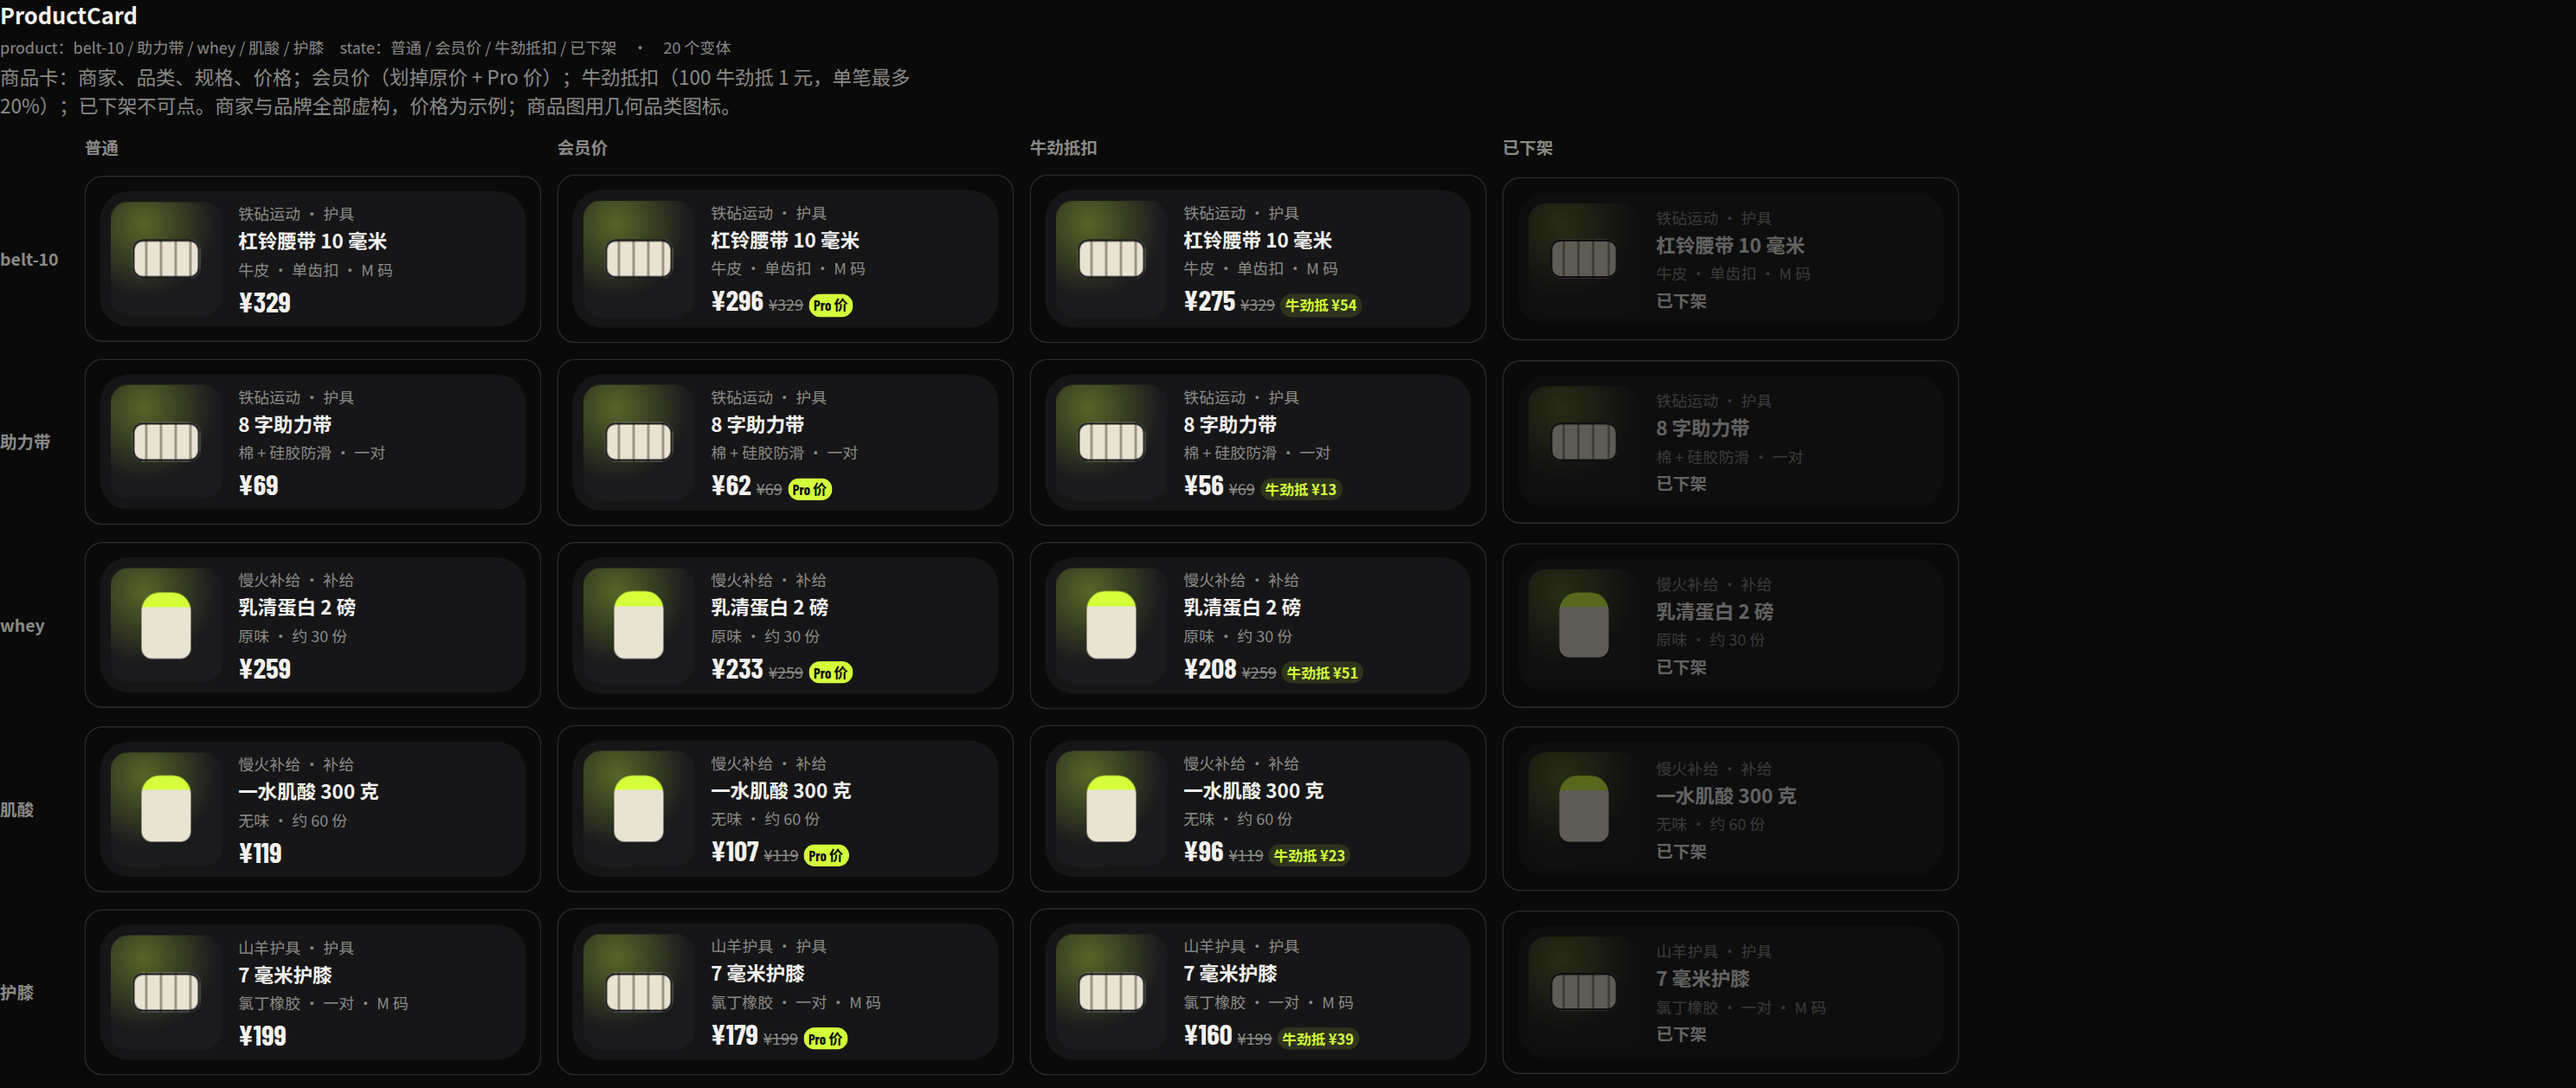
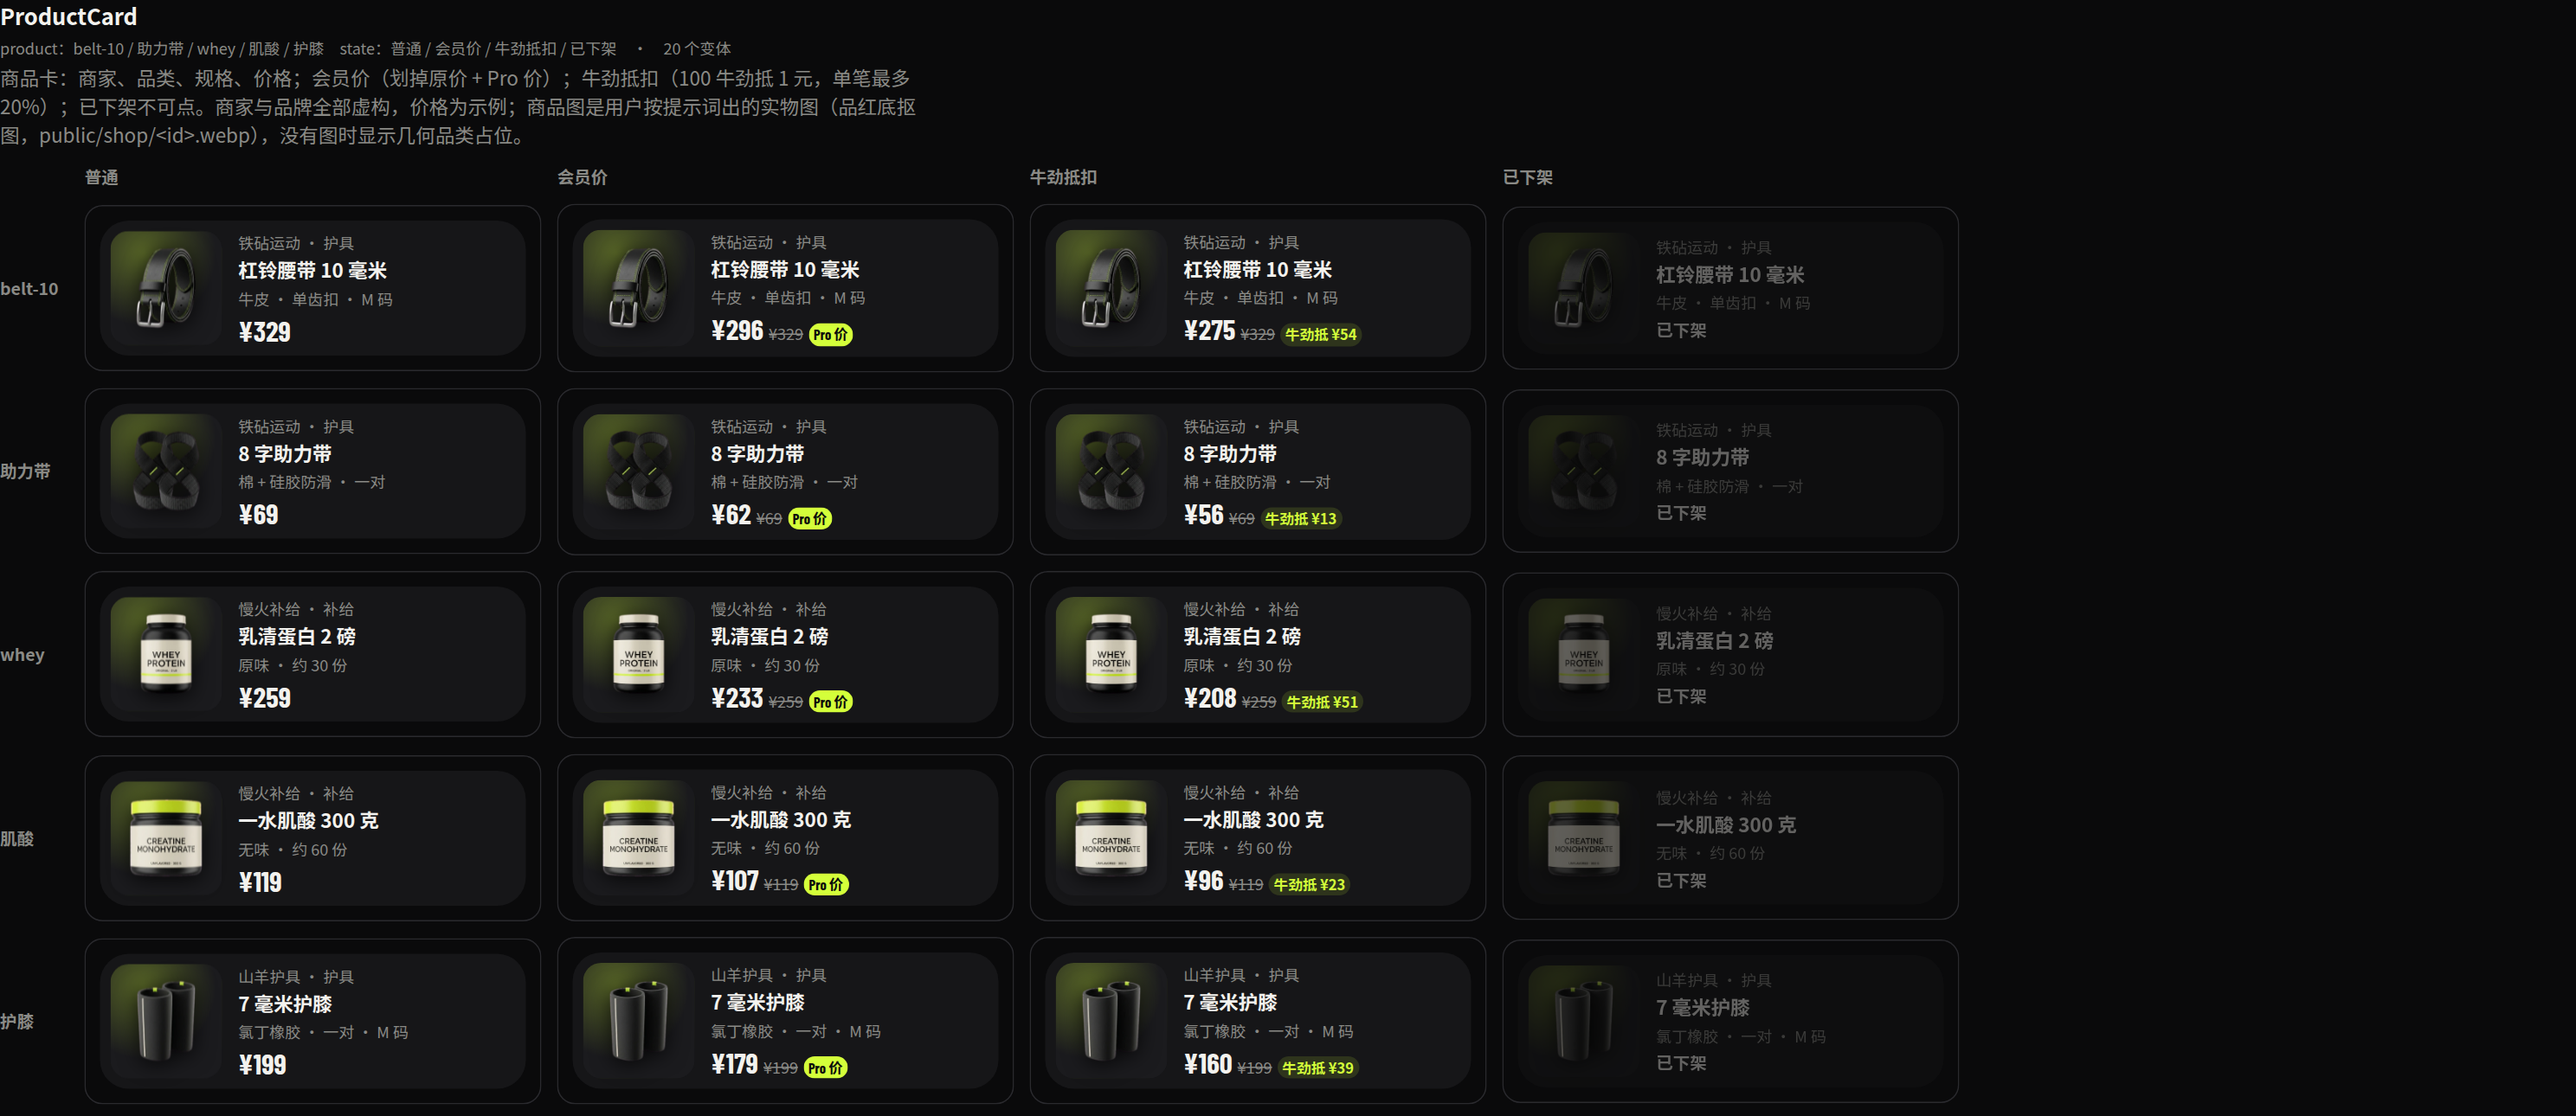
商城实物图：用户出的 5 件商品抠图入库，商品卡显示实物
- docs/shop/<id>.jpg（选用）与 docs/shop/alt/（备选），由 main 上传的 10 张整理而来
- scripts/shop_png.py：品红键（min(R, B) − G，像绿幕）反解边缘、实心阈值按量程取 200，被围住的底色小块不填（助力带 8 字交叉处）
- mascot_png.matte 新增 key='magenta' 与 open_bg_holes（小牛不开：眼睛和深色底一样黑），小牛产物不变

Claude-Session: https://claude.ai/code/session_01VtzVRg4P2pmqxTgWpjWk5a

diff --git a/src/playground/catalog.tsx b/src/playground/catalog.tsx
@@ -482,7 +482,7 @@ export const CATALOG: Entry[] = [
   },
   {
     name: 'ProductCard', group: '增长',
-    desc: '商品卡：商家、品类、规格、价格；会员价（划掉原价 + Pro 价）；牛劲抵扣（100 牛劲抵 1 元，单笔最多 20%）；已下架不可点。商家与品牌全部虚构，价格为示例；商品图用几何品类图标。',
+    desc: '商品卡：商家、品类、规格、价格；会员价（划掉原价 + Pro 价）；牛劲抵扣（100 牛劲抵 1 元，单笔最多 20%）；已下架不可点。商家与品牌全部虚构，价格为示例；商品图是用户按提示词出的实物图（品红底抠图，public/shop/<id>.webp），没有图时显示几何品类占位。',
     axes: { product: PRODUCTS.map((x) => x.id), state: ['p-normal', 'p-member', 'p-niujin', 'p-off'] }, rows: ['product'], cols: 'state', size: 'card',
     render: (p) => { const x = PRODUCTS.find((y) => y.id === p.product)!; return <ProductCard {...x} state={p.state.slice(2) as 'normal' | 'member' | 'niujin' | 'off'} off={niujinOff(x.price, growthSample().niujin.balance)} />; },
   },

diff --git a/scripts/mascot_png.py b/scripts/mascot_png.py
@@ -126,13 +126,17 @@ def figures(img, n=6, thr=34):
 
 
 # ---------- 抠图 ----------
-def matte(sr, bg, member, hi, lo, key=None, shrink=0):
+def matte(sr, bg, member, hi, lo, key=None, shrink=0, open_bg_holes=False):
     """sr = 4 倍超分后的裁切图；member = 这只牛（已放大到同尺寸，并外扩过）；
     hi = 实心阈值（和背景的色差）；lo = 牛身外面一圈的底色水平（背景噪点）。
     key = 只看一个通道（品红底用绿色通道 1：底色绿 ≈ 7，牛身最暗的蹄子也有 ≈ 86；生成图在牛身外缘有一道暗品红描边，
     按最大色差算它会被当成牛身，按绿色通道算它就是底）"""
     H, W = sr.shape[:2]
-    gap = (lambda px: px[..., key].astype(np.float32) - bg[key]) if key is not None else (lambda px: dist(px, bg))
+    if key == 'magenta':  # 品红键（像绿幕）：品红度 = min(R, B) − G，底 ≈ 240，黑 / 骨白 / 荧光都在 30 以下；混合像素按品红度线性反解
+        mg = lambda px: np.minimum(px[..., 0], px[..., 2]).astype(np.float32) - px[..., 1]
+        gap = lambda px: mg(np.asarray(bg, np.float32)[None, None]) - mg(px.astype(np.float32))
+    elif key is not None: gap = lambda px: px[..., key].astype(np.float32) - bg[key]
+    else: gap = lambda px: dist(px, bg)
     d = gap(sr)
     core = (d > hi) & member
     core = cv2.morphologyEx(core.astype(np.uint8), cv2.MORPH_OPEN, np.ones((3, 3), np.uint8)).astype(bool)
@@ -144,7 +148,9 @@ def matte(sr, bg, member, hi, lo, key=None, shrink=0):
     fill = np.zeros((H, W), bool)
     ys, xs = np.nonzero(core); fig_area = (ys.max() - ys.min()) * (xs.max() - xs.min())
     for j in range(1, cnt):
-        if st[j, cv2.CC_STAT_AREA] < 0.008 * fig_area: fill |= cc == j  # 眼睛最大约 0.5%，尾巴圈住的背景约 1% 以上
+        # 眼睛最大约 0.5%，尾巴圈住的背景约 1% 以上。open_bg_holes：被围住、但颜色就是底色的小块（助力带 8 字交叉处）不填
+        # （小牛不能开：它的眼睛和深色底一样黑）
+        if st[j, cv2.CC_STAT_AREA] < 0.008 * fig_area and not (open_bg_holes and np.median(d[cc == j]) < hi / 2): fill |= cc == j
     solid = core | fill
     # 边缘：像素 = α·F + (1−α)·底，F 取最近的实心像素颜色（换掉边上混进去的底色，不留黑边 / 绿边）
     _, lab = cv2.distanceTransformWithLabels((~core).astype(np.uint8), cv2.DIST_L2, 5, labelType=cv2.DIST_LABEL_PIXEL)

diff --git a/scripts/shop_png.py b/scripts/shop_png.py
@@ -2,8 +2,8 @@
 """商城商品图（2026-10-05）：用户按 design/brand/prompts/nanobanana-shop.md 用 Nano Banana 出图（品红纯色底、无阴影），这里抠图、裁成正方形导出。
 
 来源：docs/shop/<商品 id>.png 或 .jpg（id 与 src/data/growth.ts 的 PRODUCTS 一致：belt-10 / straps / whey / creatine / knee）。
-流程：找最大的一块（商品本身）→ 和小牛同一套抠图（scripts/mascot_png.py 的 matte：边缘按「像素 = α·前景 + (1−α)·底」反解 α，
-      实心区往里收 2 像素防品红边）→ 等比放进正方形、四周留 6% → 成品尺寸上轻微羽化。
+流程：找最大的一块（商品本身）→ 和小牛同一套抠图（scripts/mascot_png.py 的 matte：边缘按「像素 = α·前景 + (1−α)·底」反解 α），
+      用品红键（min(R, B) − G，像绿幕：黑、骨白、荧光的边缘都能准确反解），实心区往里收 1 像素防品红边→ 等比放进正方形、四周留 6% → 成品尺寸上轻微羽化。
 导出：public/shop/<id>.webp（App 用，512 × 512）、design/brand/shop/<id>.png（母版，1024 × 1024）。ProductCard 有图就显示，没有就显示占位。
 
   python3 scripts/shop_png.py            # 处理 docs/shop/ 里所有的图
@@ -27,7 +27,7 @@ def cutout(path):
     k = 1 + int(np.argmax(st[1:, cv2.CC_STAT_AREA]))
     x, y, w, h = st[k, 0], st[k, 1], st[k, 2], st[k, 3]
     mem = cv2.dilate((cc == k).astype(np.uint8), cv2.getStructuringElement(cv2.MORPH_ELLIPSE, (25, 25))).astype(bool)
-    rgba = matte(img, bg, mem, hi=58, lo=12, shrink=2)
+    rgba = matte(img, bg, mem, hi=200, lo=12, key='magenta', shrink=1, open_bg_holes=True)  # 品红键量程 ≈ 240：实心要 200 以上，半混的边缘像素不算实心
     m2 = 16
     return rgba[max(0, y - m2):y + h + m2, max(0, x - m2):x + w + m2]
 

diff --git a/design/brand/prompts/nanobanana-shop.md b/design/brand/prompts/nanobanana-shop.md
@@ -3,6 +3,8 @@
 > 2026-10-05 · 用户：护具、补剂这类实物给提示词，用户生成好抠图的图像；冻结卡等道具用 Logo 变体（已做成 `PropGlyph`，不用出图）。
 > 范围是 `src/data/growth.ts` 里的 5 件商品（商家、品牌全部虚构，价格是示例）。
 
+> **2026-10-06 已出图**：用户每件出了 2 张（512 × 512），选用的放在 `docs/shop/<id>.jpg`，另一张留在 `docs/shop/alt/`；已抠图导出 `public/shop/`。
+
 ## 怎么用
 
 1. 每件商品**单独出一张**（一张图只放一件，抠图最干净）：1:1，最高分辨率（2048 × 2048 或以上）。
